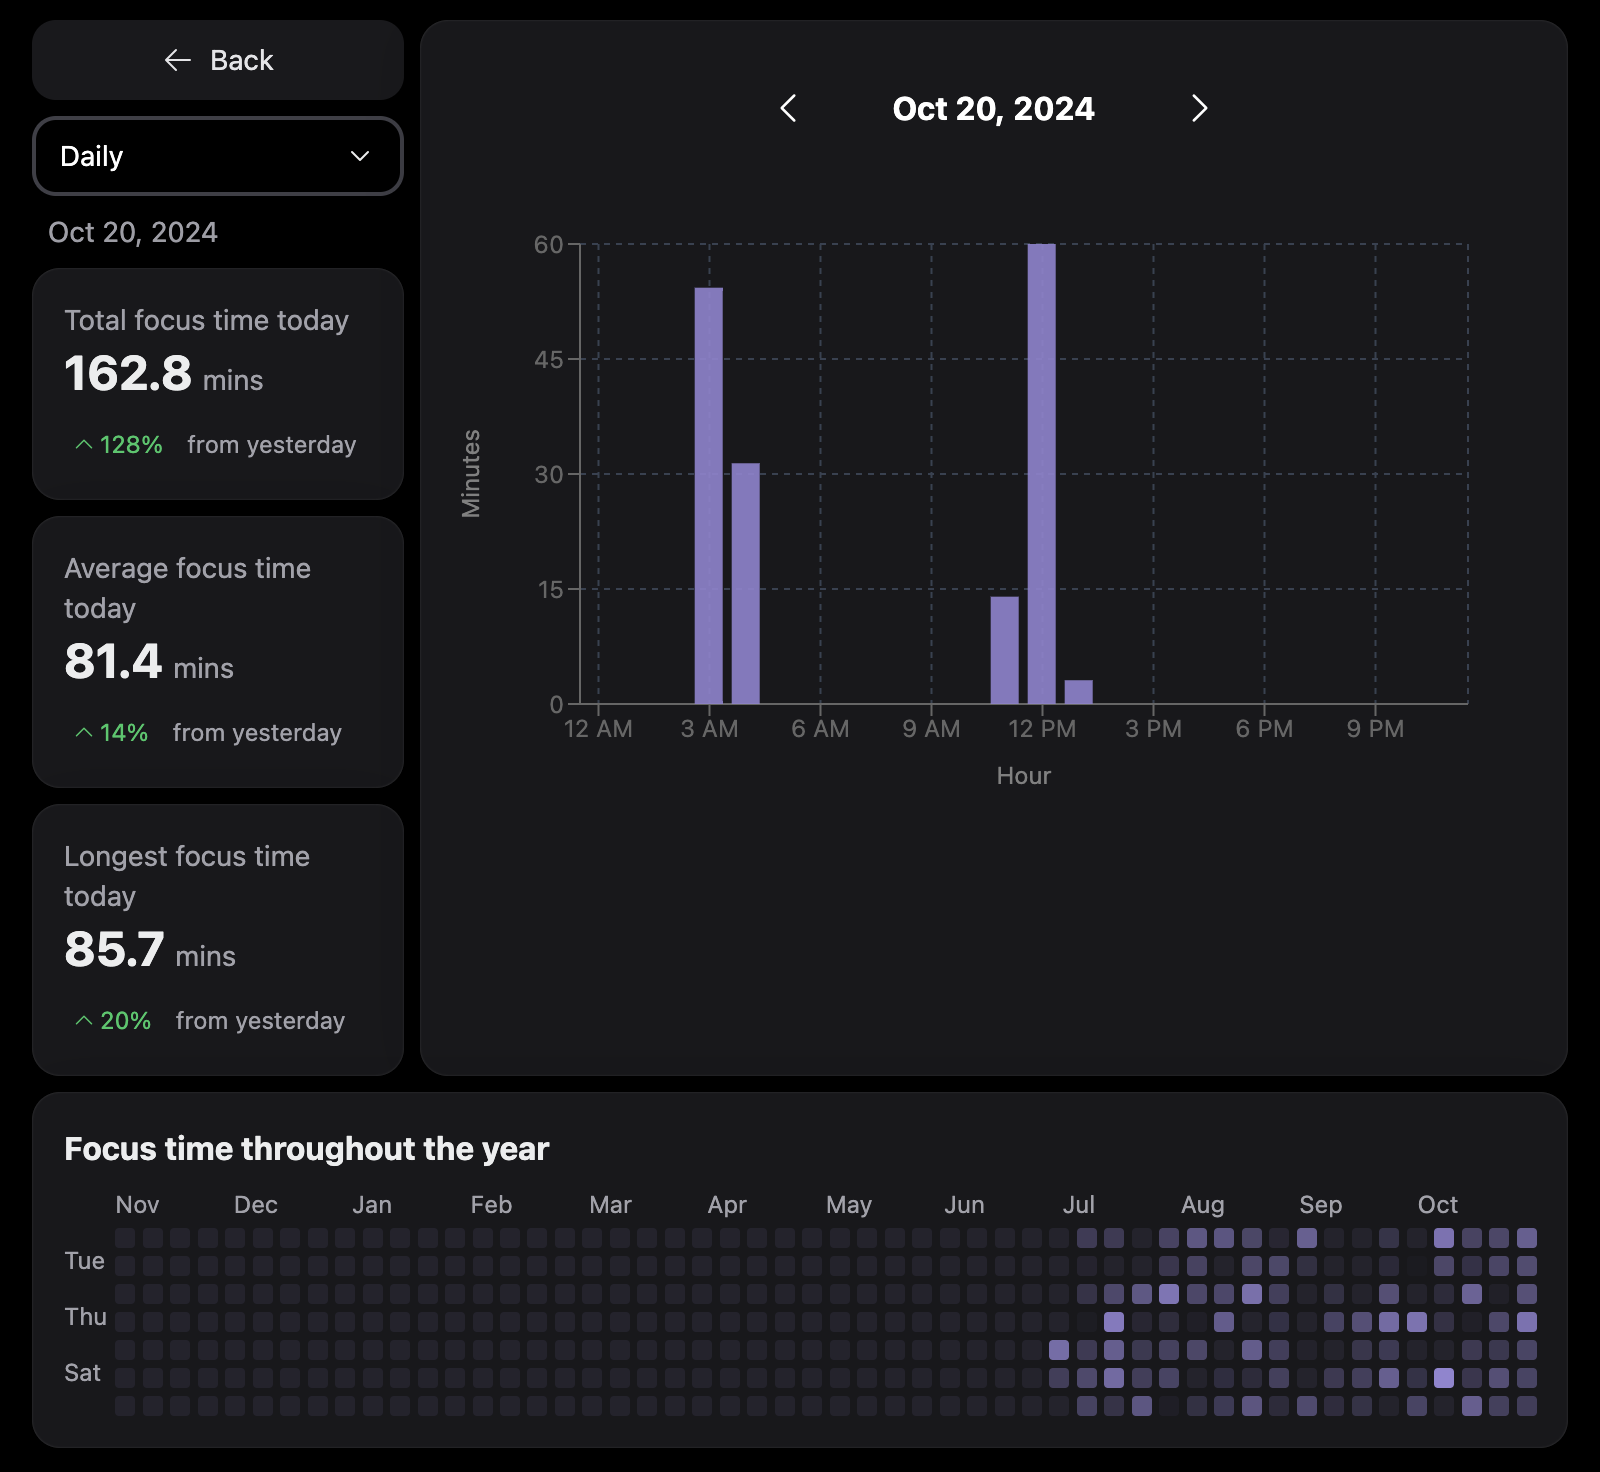
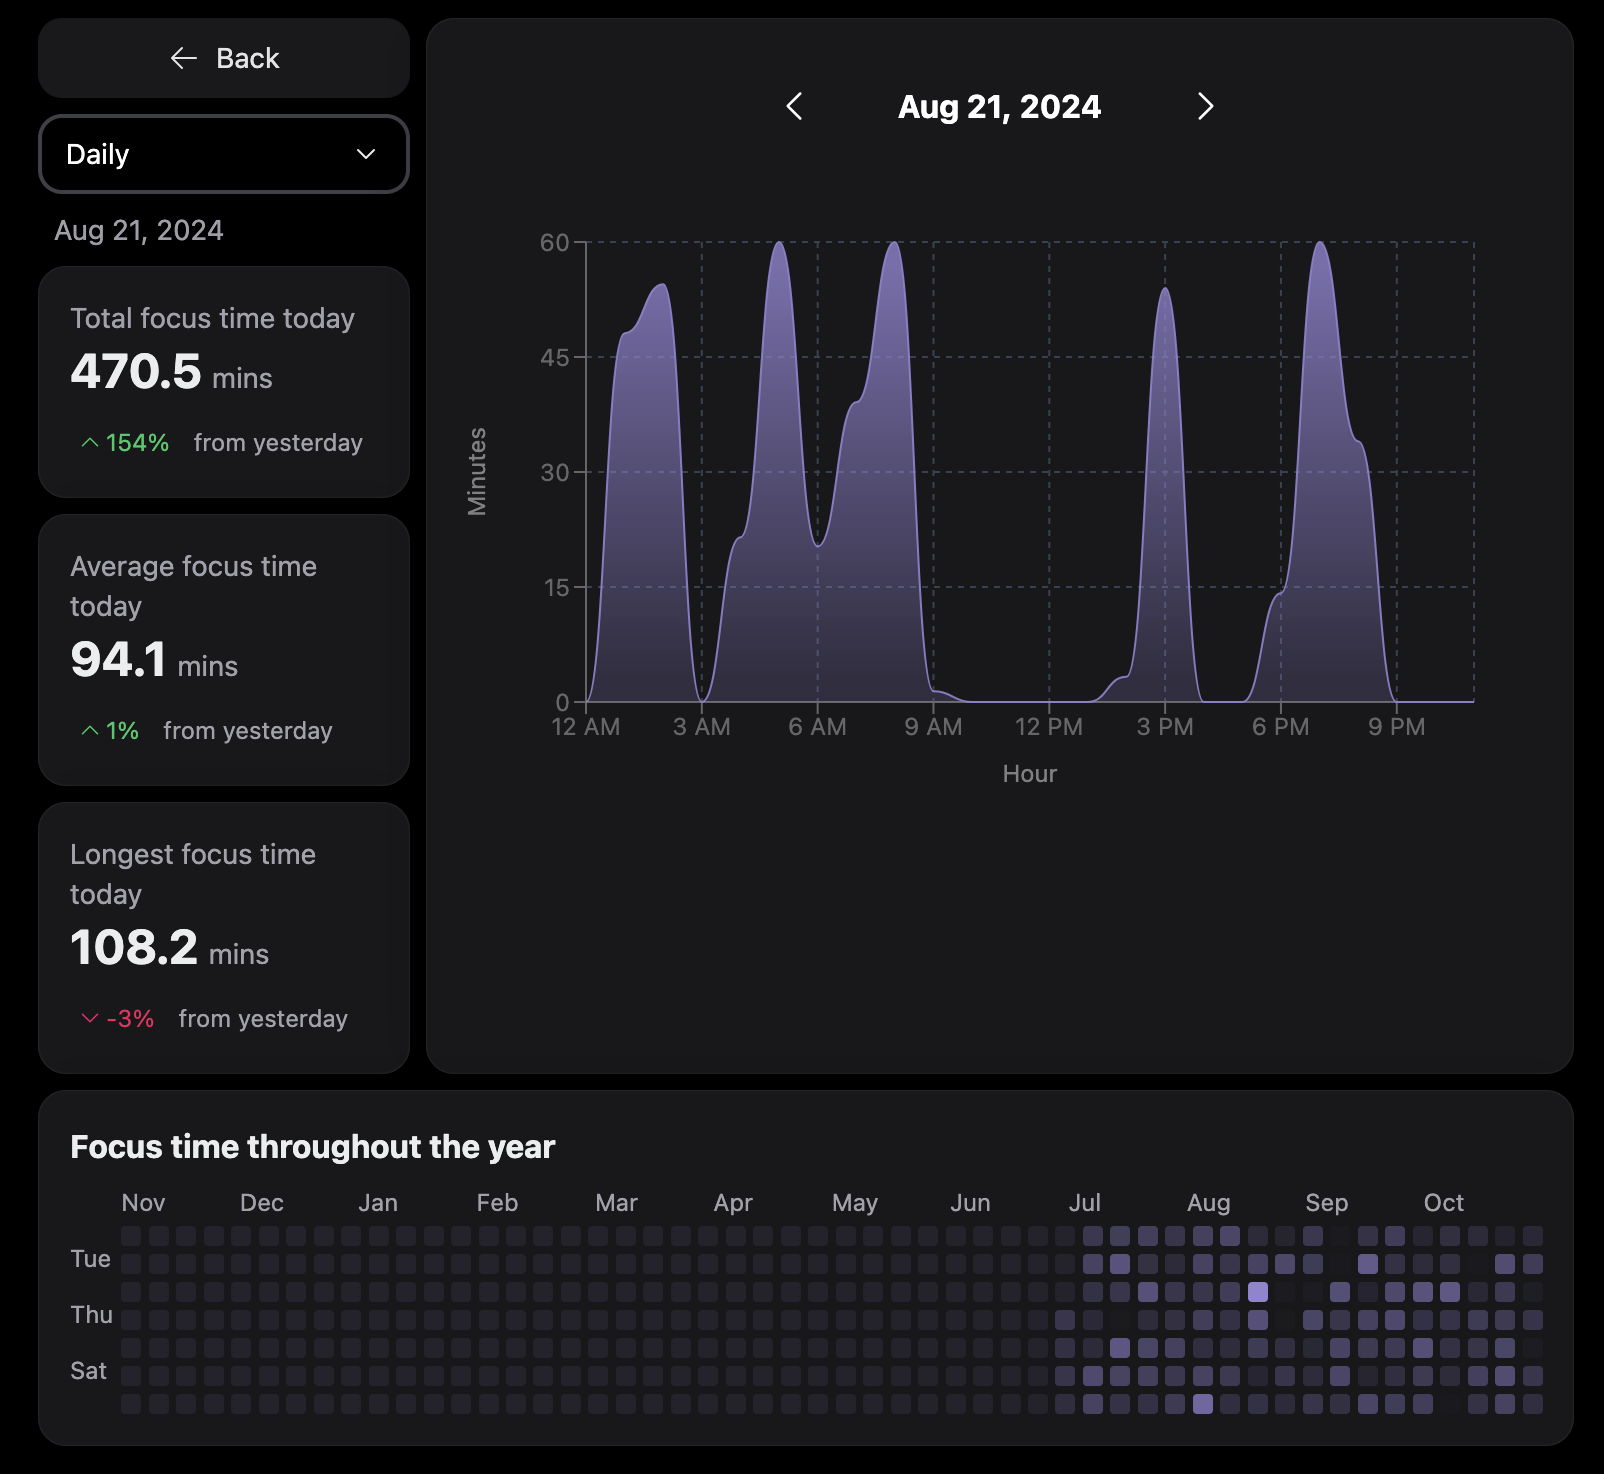
feat: area chart for focus chart

diff --git a/src/Pages/Stats/FocusChart.tsx b/src/Pages/Stats/FocusChart.tsx
@@ -1,14 +1,14 @@
 import React from 'react'
 import {
   ResponsiveContainer,
-  BarChart,
   CartesianGrid,
   XAxis,
   YAxis,
   Label,
-  Bar,
   Tooltip,
   TooltipProps,
+  AreaChart,
+  Area,
 } from 'recharts'
 import type { FocusSession } from '../../context'
 import colors from 'tailwindcss/colors'
@@ -116,7 +116,7 @@ export default function FocusChart({
       </CardHeader>
       <CardBody>
         <ResponsiveContainer height={300} className='text-primary/90'>
-          <BarChart
+          <AreaChart
             data={getFocusByHour(sessions, date, {
               minutes: true,
               precision: 1,
@@ -155,9 +155,28 @@ export default function FocusChart({
                 fill: 'rgba(0, 0, 0, 0)',
               }}
             />
-
-            <Bar dataKey='Focus Time' fill='currentColor' />
-          </BarChart>
+            <defs>
+              <linearGradient id='colorUv' x1='0' y1='0' x2='0' y2='1'>
+                <stop
+                  offset='5%'
+                  stopColor='hsl(var(--flowtimer-primary))'
+                  stopOpacity={0.8}
+                />
+                <stop
+                  offset='95%'
+                  stopColor='hsl(var(--flowtimer-primary))'
+                  stopOpacity={0.2}
+                />
+              </linearGradient>
+            </defs>
+            <Area
+              dataKey='Focus Time'
+              type='bump'
+              stroke='currentColor'
+              fill='url(#colorUv)'
+              fillOpacity={1}
+            />
+          </AreaChart>
         </ResponsiveContainer>
       </CardBody>
     </Card>
